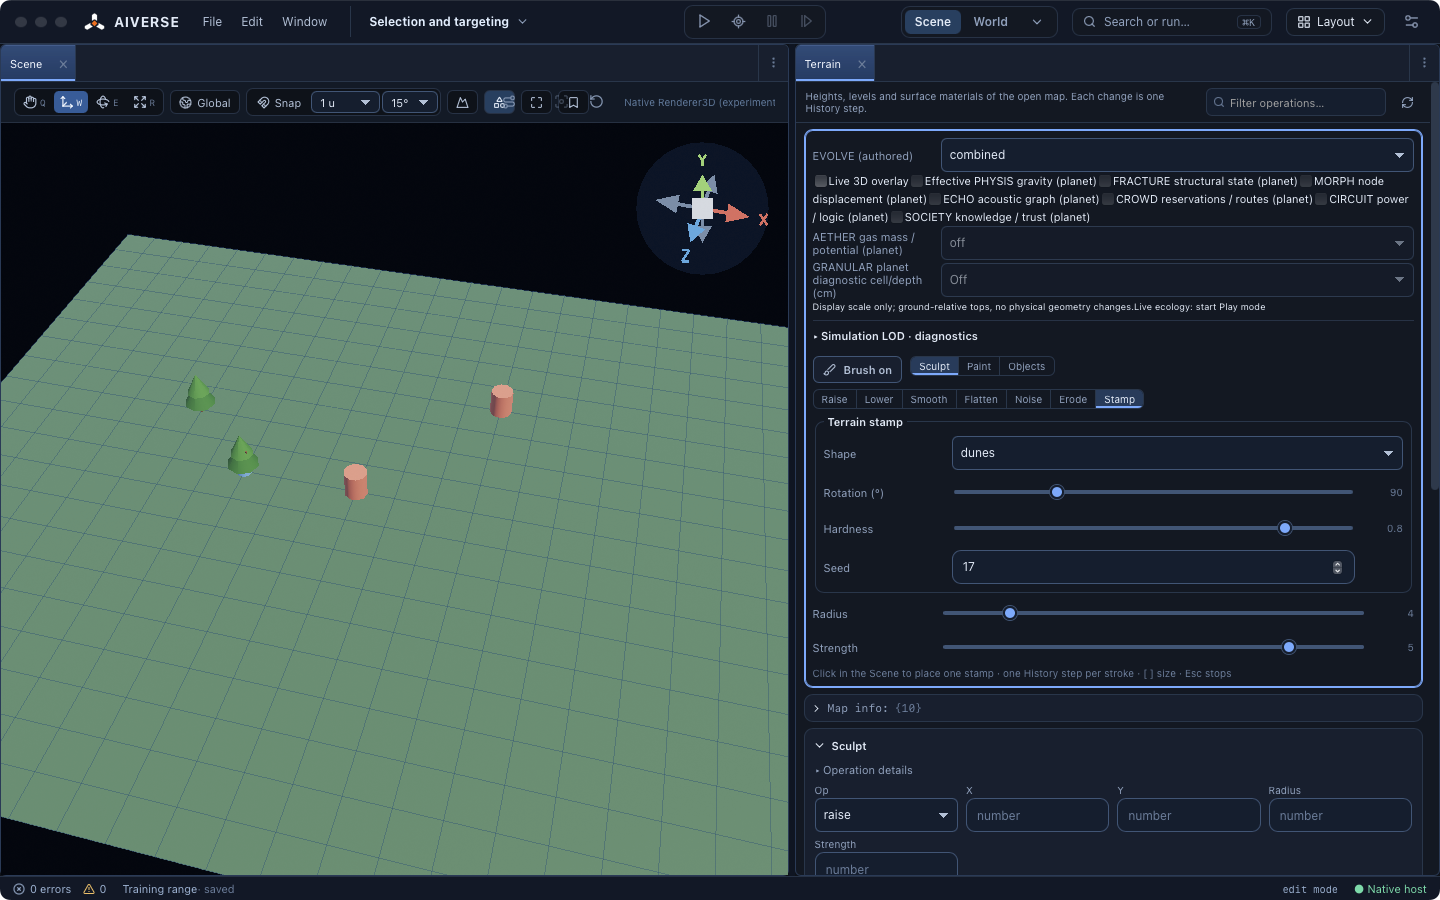
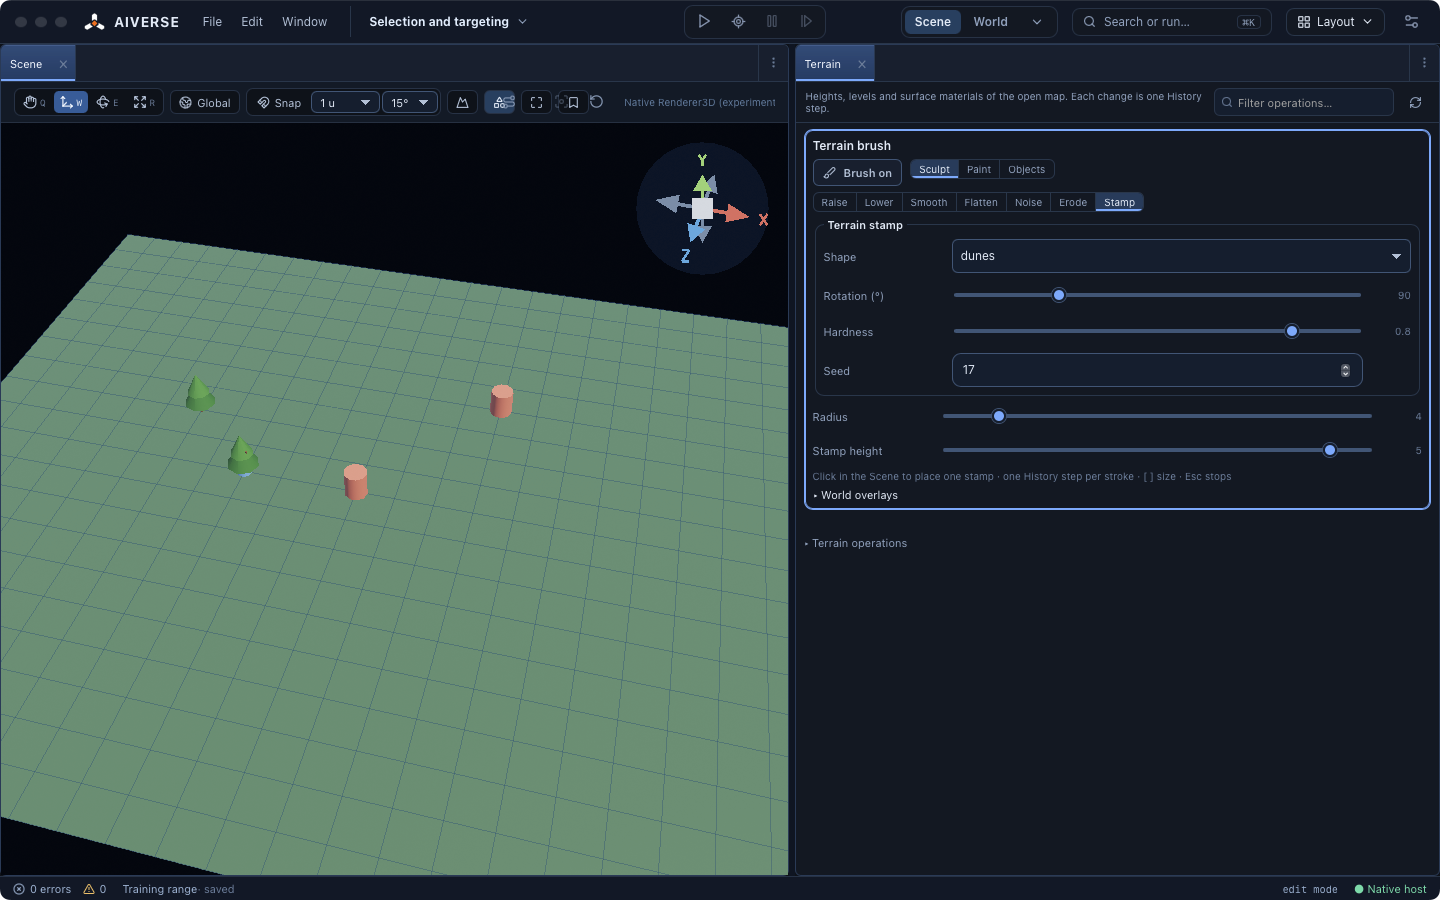
Record final Terrain window capture and stamp checks

diff --git a/docs/handoff/studio-html5/studio-only-editor.md b/docs/handoff/studio-html5/studio-only-editor.md
@@ -783,3 +783,5 @@ PRISMA frame diagnostics 1e0ed96d5. Mac Studio displayed simultaneous Scene and 
 Terrain stamp transfer: use single-click detail sculpt stamps with rotation, hardness, seed and terrain elevation rendering in Scene. Verify one stroke, Undo and persistence.
 
 Terrain stamps ad1379f40. Native terrain geometry and studio_session CTests, TypeScript, Vite and 299 web tests passed. AppKit test dragged from Scene and applied one dunes stamp, 90 degrees, hardness .8, strength 5 and seed 17. Undo restored all sampled heights; redo and save/reopen restored the same detail. Screenshot pair terrain-stamp-before.png and terrain-stamp-dunes.png in docs/evidence/studio-project-catalog. Receipt docs/evidence/studio-terrain-detail-stamp.json. Screenshot shows ecology diagnostics and raw tools competing with the primary brush. Move them into disclosure sections and repeat.
+
+Terrain layout and recessed stamps 4b7815087. TypeScript, Vite, 299 web tests, studio_session and studio_terrain_geometry passed. Repeated the AppKit gesture in the final Terrain panel and verified saved heights after reopen. The brush is primary and raw operations and ecology overlays are collapsible. The signed stamp height is independent of the ordinary brush strength. Updated before/after captures; receipt docs/evidence/studio-terrain-stamp-layout.json. Next: sparse Terrain authoring and remaining legacy terrain brush modes. Windows and merged-tree Mac quick gate pending.
